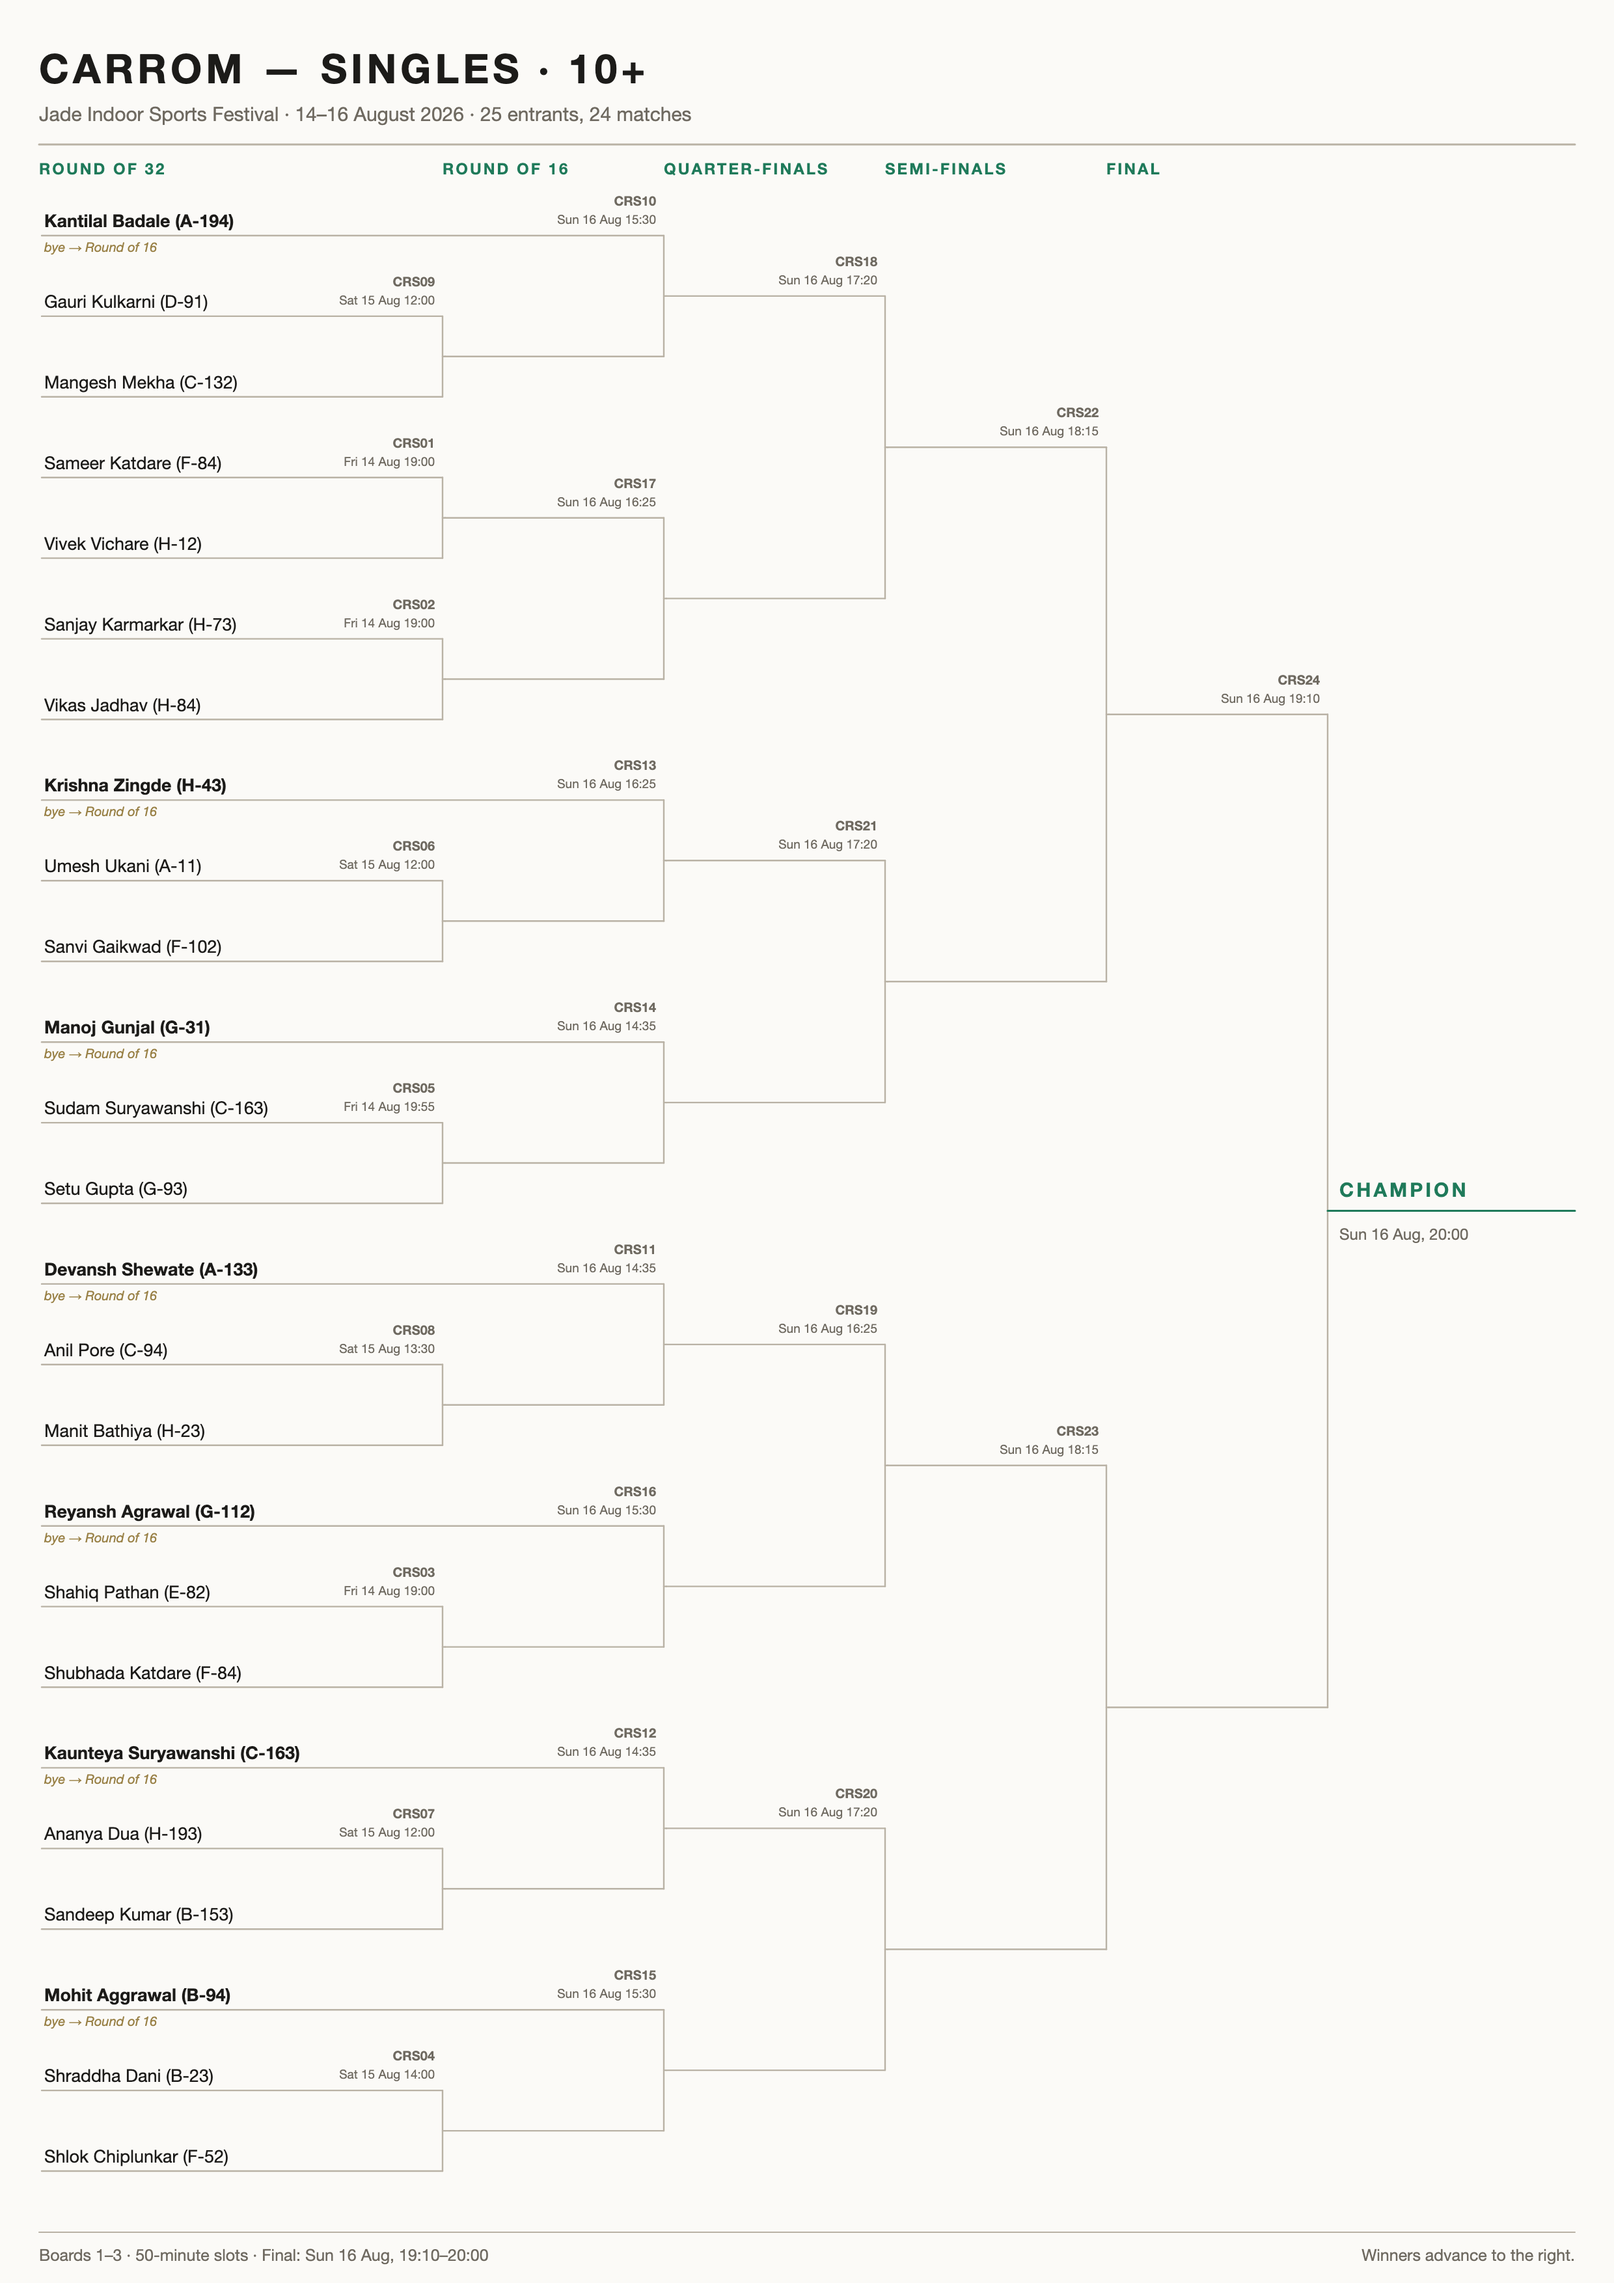
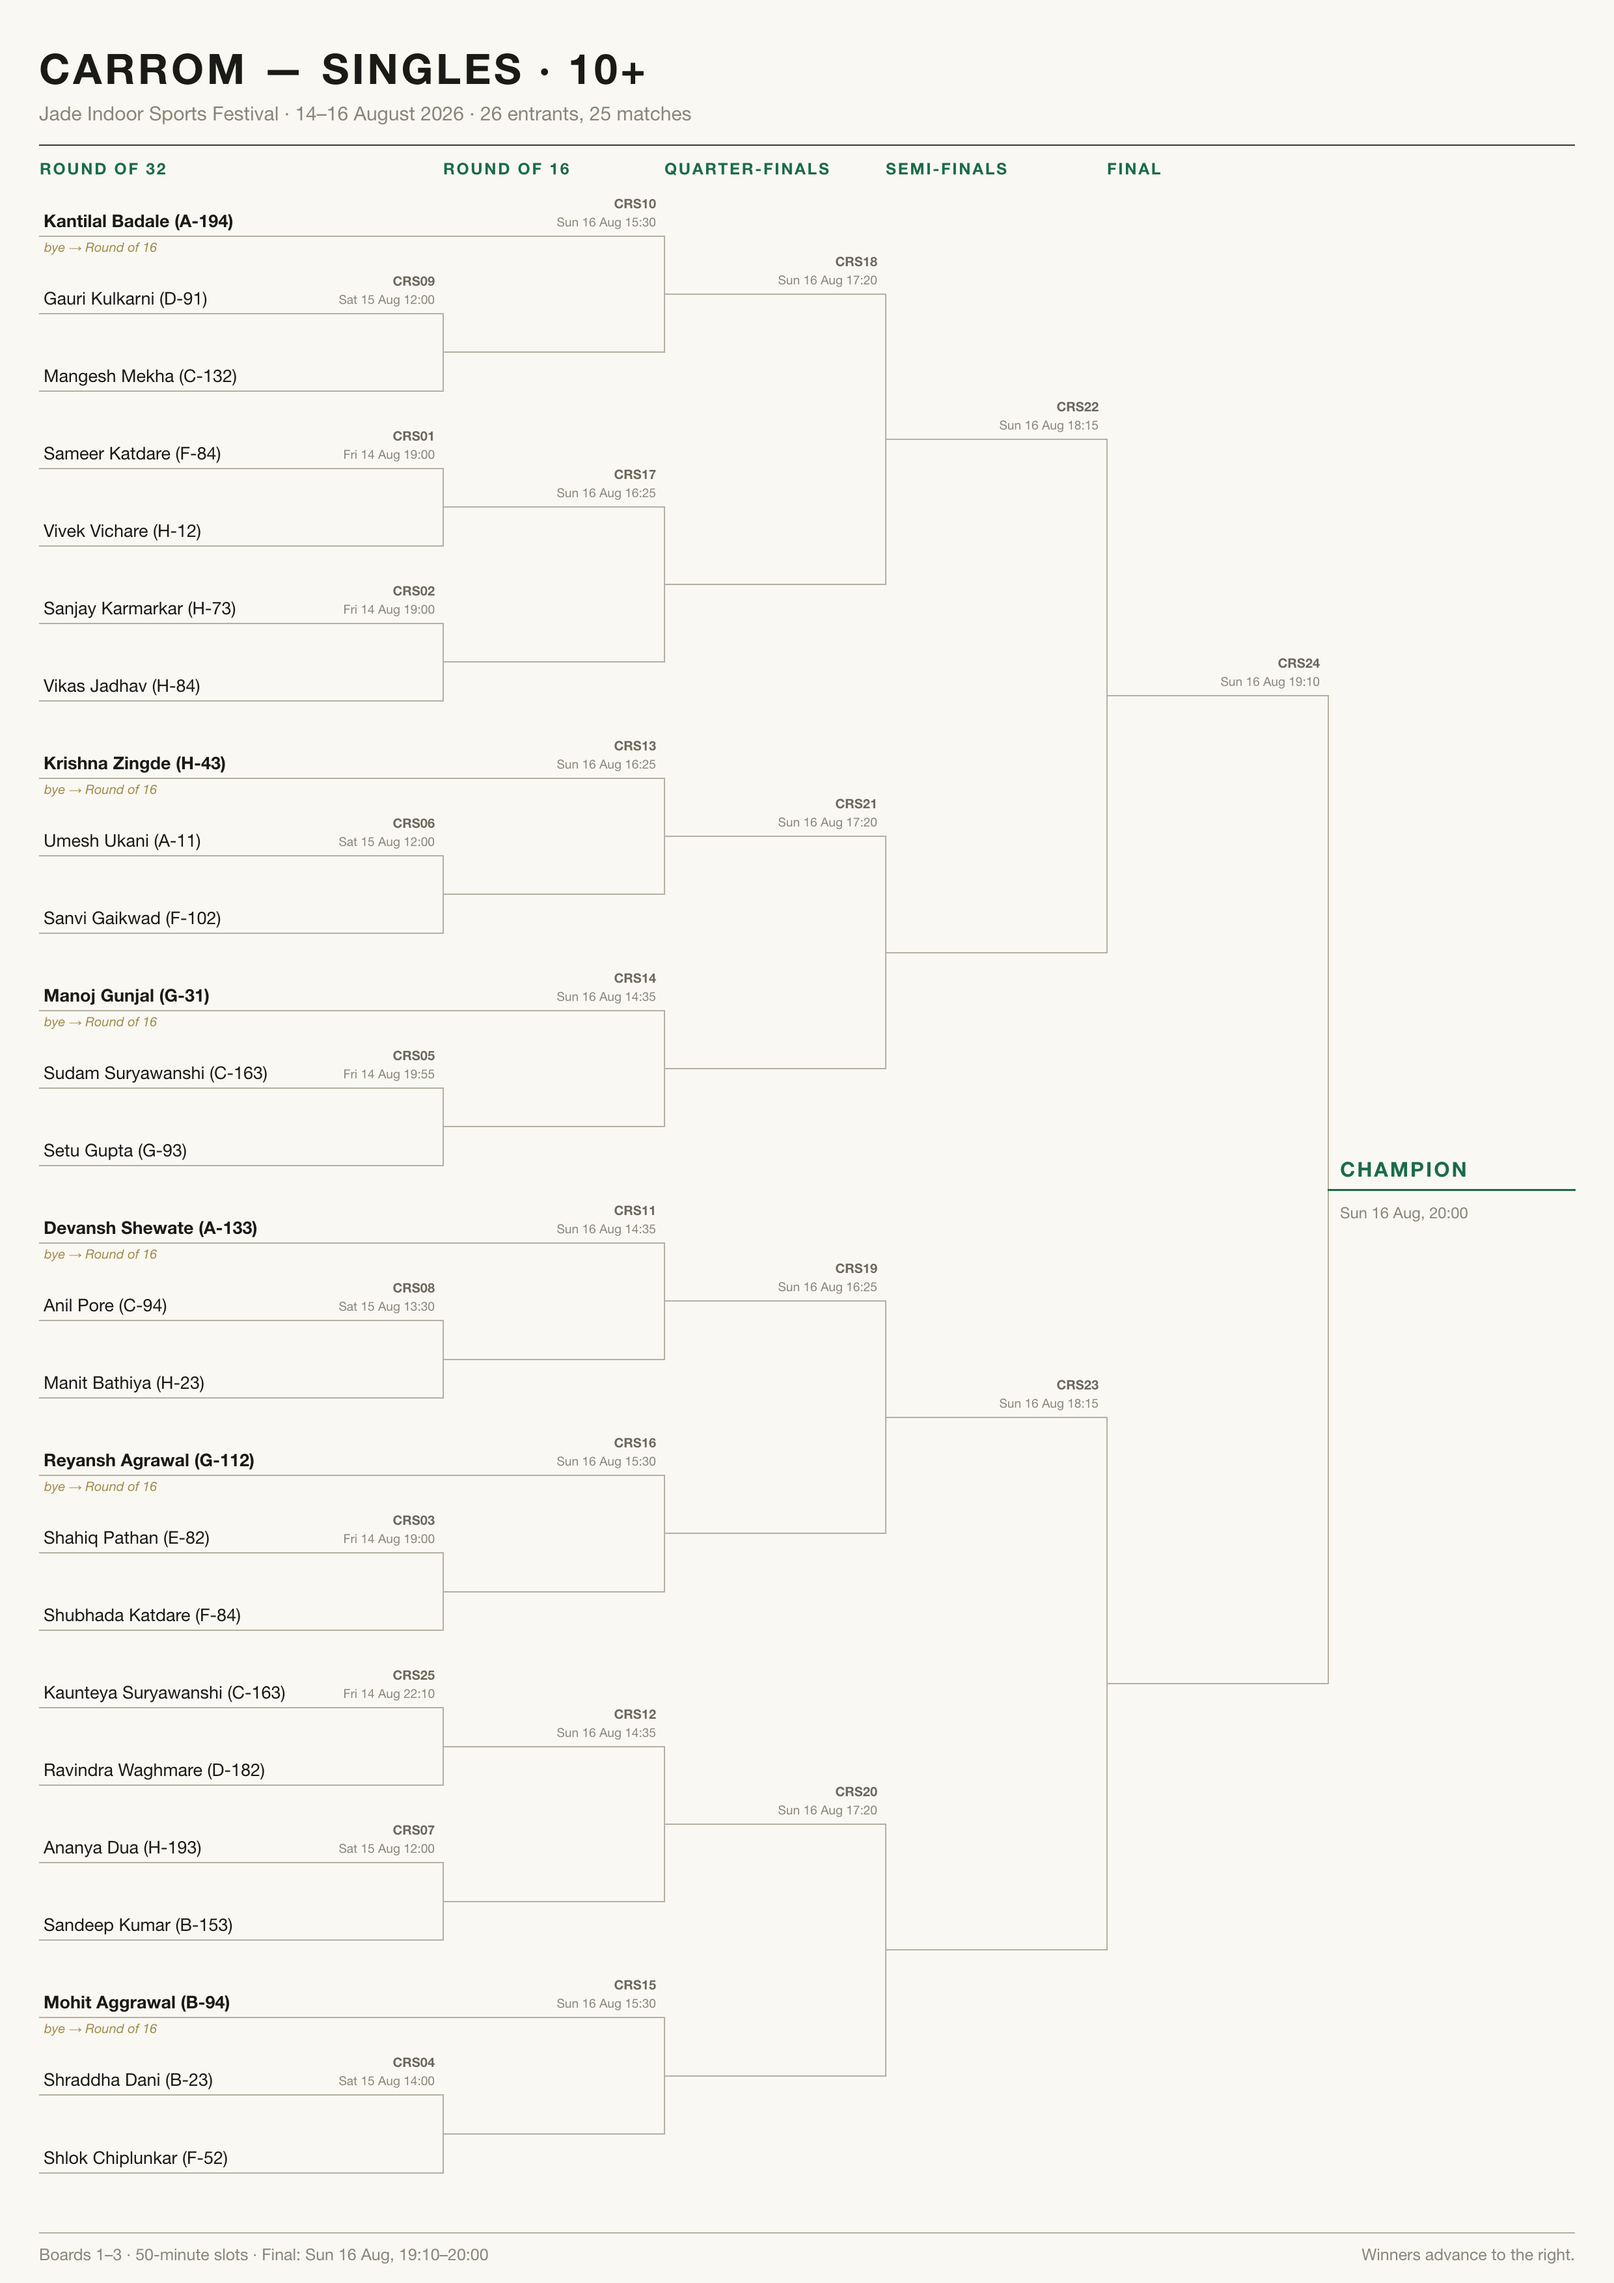
Add bracket rendering script and update carrom singles match data for Kaunteya

diff --git a/scripts/bracket.py b/scripts/bracket.py
@@ -1,0 +1,204 @@
+#!/usr/bin/env python3
+"""Render a knockout draw CSV as a printable A4 bracket sheet.
+
+Lays the draw out as HTML at 1240x1754 CSS px (A4 at 150dpi) and screenshots it
+with headless Chrome at 2x, giving a 2480x3508 PNG. Geometry is measured off the
+existing sheets in brackets/ so a regenerated category matches the rest of the set.
+
+    python3 bracket.py schedules/data/carrom-singles.csv brackets/carrom-singles.png
+"""
+
+import csv
+import html
+import subprocess
+import sys
+from pathlib import Path
+
+CHROME = '/Applications/Google Chrome.app/Contents/MacOS/Google Chrome'
+
+# --- page geometry, CSS px; rendered at 2x
+W, H = 1240, 1754
+ML, MR = 30, 30
+COL0, COL_GAP = 339.75, 170.0          # x of each round's vertical connector
+ROUNDS = ['Round of 32', 'Round of 16', 'Quarter-final', 'Semi-final', 'Final']
+COL_X = {r: COL0 + COL_GAP * i for i, r in enumerate(ROUNDS)}
+LABELS = ['ROUND OF 32', 'ROUND OF 16', 'QUARTER-FINALS', 'SEMI-FINALS', 'FINAL']
+ROW_TOP, ROW_BOTTOM = 180.75, 1668.75  # y of the first and last entrant line
+RULE_Y, FOOT_Y = 110.75, 1714.75
+LABEL_INSET = 5.75                     # match labels are right-aligned this far left of the connector
+
+C_BG = '#faf8f3'
+C_LINE = '#b5b0a0'
+C_NAME = '#1a1a17'
+C_ID = '#6b675c'
+C_TIME = '#8a8578'
+C_GREEN = '#1a6b4a'
+C_TAN = '#a08b4a'
+C_RULE = '#3a3a33'
+
+SLOT_MINUTES = {'Badminton': 30, 'Table Tennis': 15, 'Chess': 50, 'Carrom': 50,
+                '8-ball pool': 15}
+
+
+def build(rows):
+	"""Index the draw by match id and find its final."""
+	by_id = {r['Match']: r for r in rows}
+	fed = {s[len('Winner '):] for r in rows for s in (r['Side A'], r['Side B'])
+	       if s.startswith('Winner ')}
+	(root,) = [m for m in by_id if m not in fed]
+	return by_id, root
+
+
+def main(csv_path, out_png):
+	with open(csv_path, encoding='utf-8') as fh:
+		rows = list(csv.DictReader(fh))
+	by_id, root = build(rows)
+
+	# Entrants top to bottom: a depth-first walk of the tree from the final.
+	order = []
+
+	def dfs(mid):
+		for side in ('Side A', 'Side B'):
+			val = by_id[mid][side]
+			if val.startswith('Winner '):
+				dfs(val[len('Winner '):])
+			else:
+				order.append((val, mid))
+
+	dfs(root)
+
+	n = len(order)
+	pitch = (ROW_BOTTOM - ROW_TOP) / (n - 1)
+	leaf_y = {name: ROW_TOP + i * pitch for i, (name, _) in enumerate(order)}
+
+	ymid = {}
+
+	def y_of(mid):
+		"""A match sits midway between the two sides feeding it."""
+		if mid not in ymid:
+			ymid[mid] = sum(side_y(by_id[mid][s]) for s in ('Side A', 'Side B')) / 2
+		return ymid[mid]
+
+	def side_y(val):
+		return y_of(val[len('Winner '):]) if val.startswith('Winner ') else leaf_y[val]
+
+	def x_start(val):
+		"""Where a side's incoming horizontal begins — the left margin, or the
+		connector of the match it comes out of."""
+		if val.startswith('Winner '):
+			return COL_X[by_id[val[len('Winner '):]]['Round']]
+		return ML
+
+	out = []
+
+	def div(style, text=''):
+		out.append(f'<div style="{style}">{text}</div>')
+
+	def snap(v):
+		"""Land on a whole device pixel — the page is rendered at 2x, so halves
+		are exact and anything finer leaves a seam where two rules meet."""
+		return round(v * 2) / 2
+
+	def hline(x1, x2, y, color=C_LINE, thick=1):
+		x1, x2, y = snap(x1), snap(x2), snap(y)
+		div(f'position:absolute;left:{x1:.1f}px;top:{y:.1f}px;width:{x2 - x1:.1f}px;'
+		    f'height:{thick}px;background:{color}')
+
+	def vline(x, y1, y2, color=C_LINE, thick=1):
+		x, y1, y2 = snap(x), snap(y1), snap(y2)
+		div(f'position:absolute;left:{x:.1f}px;top:{y1:.1f}px;width:{thick}px;'
+		    f'height:{y2 - y1:.1f}px;background:{color}')
+
+	def text(x, y, s, size, color, weight=400, italic=False, right=False,
+	         width=340, ls=0):
+		left = x - width if right else x
+		div(f'position:absolute;left:{left:.2f}px;top:{y:.2f}px;width:{width}px;'
+		    f'text-align:{"right" if right else "left"};font-size:{size}px;'
+		    f'color:{color};font-weight:{weight};letter-spacing:{ls}px;'
+		    f'font-style:{"italic" if italic else "normal"};line-height:1',
+		    html.escape(s))
+
+	# --- the bracket itself: three sides of a box per match, opening to the left
+	for mid, r in by_id.items():
+		v = COL_X[r['Round']]
+		a, b = r['Side A'], r['Side B']
+		ya, yb = side_y(a), side_y(b)
+		# arms run a pixel past the connector so the two corners close
+		hline(x_start(a), v + 1, ya)
+		hline(x_start(b), v + 1, yb)
+		vline(v, ya, yb)
+		# id and time, right-aligned just inside the connector, above the upper arm
+		text(v - LABEL_INSET, ya - 30, mid, 10.0, C_ID, weight=700, right=True)
+		text(v - LABEL_INSET, ya - 15, f"{r['Day']} {r['Start']}", 9.55, C_TIME, right=True)
+
+	# --- entrants; a bye enters at a later round and is called out as such
+	byes = {name for name, mid in order if by_id[mid]['Round'] != ROUNDS[0]}
+	for name, mid in order:
+		y = leaf_y[name]
+		text(33.5, y - 18, name, 13.5, C_NAME, weight=700 if name in byes else 400)
+		if name in byes:
+			text(34, y + 4, f"bye → {by_id[mid]['Round']}", 10, C_TAN, italic=True)
+
+	# --- champion, drawn like an entrant row but in green
+	fy = y_of(root)
+	fin = by_id[root]
+	champ_x = COL_X['Final'] + 9.75
+	hline(COL_X['Final'], W - MR + 0.5, fy, C_GREEN, 1.5)
+	text(champ_x, fy - 23.31, 'CHAMPION', 15.7, C_GREEN, weight=700, ls=1.45)
+	text(champ_x, fy + 12.38, f"{fin['Day']}, {fin['End']}", 11.9, C_TIME)
+
+	# --- header and footer
+	head = []
+
+	def fixed(style, s):
+		head.append(f'<div style="position:absolute;{style};line-height:1">'
+		            f'{html.escape(s)}</div>')
+
+	cat = rows[0]['Category']
+	fixed(f'left:{ML}px;top:36.5px;font-size:32.2px;font-weight:700;letter-spacing:2.27px;'
+	      f'color:{C_NAME}', cat.upper())
+	fixed(f'left:{ML}px;top:79.5px;font-size:15px;color:{C_TIME}',
+	      f'Jade Indoor Sports Festival · 14–16 August 2026 · '
+	      f'{n} entrants, {len(by_id)} matches')
+	head.append(f'<div style="position:absolute;left:{ML}px;top:{RULE_Y}px;'
+	            f'width:{W - ML - MR}px;height:1px;background:{C_RULE}"></div>')
+	for i, label in enumerate(LABELS):
+		# each round's label sits at the left edge of its band — the connector of
+		# the round before it
+		x = ML + 0.5 if i == 0 else COL_X[ROUNDS[i - 1]] + 0.75
+		fixed(f'left:{x:.2f}px;top:{123.4:.2f}px;font-size:12.3px;font-weight:700;'
+		      f'letter-spacing:1.35px;color:{C_GREEN}', label)
+
+	area = sorted({r['Court'] for r in rows})
+	kind = area[0].split()[0]
+	mins = SLOT_MINUTES[cat.split(' — ')[0]]
+	head.append(f'<div style="position:absolute;left:{ML}px;top:{FOOT_Y}px;'
+	            f'width:{W - ML - MR}px;height:1px;background:{C_LINE}"></div>')
+	fixed(f'left:{ML}px;top:{FOOT_Y + 10.5}px;font-size:12.5px;color:{C_TIME}',
+	      f"{kind}s {area[0].split()[-1]}–{area[-1].split()[-1]} · {mins}-minute slots · "
+	      f"Final: {fin['Day']}, {fin['Start']}–{fin['End']}")
+	head.append(f'<div style="position:absolute;left:{ML}px;top:{FOOT_Y + 10.5}px;'
+	            f'width:{W - ML - MR}px;text-align:right;font-size:12.5px;'
+	            f'color:{C_TIME};line-height:1">Winners advance to the right.</div>')
+
+	doc = (f'<!doctype html><html><head><meta charset="utf-8"><style>'
+	       f'*{{margin:0;padding:0;box-sizing:border-box}}'
+	       f'html,body{{width:{W}px;height:{H}px;background:{C_BG};'
+	       f"font-family:'Helvetica Neue',Helvetica,Arial,sans-serif;"
+	       f'-webkit-font-smoothing:antialiased}}'
+	       f'</style></head><body>{"".join(head)}{"".join(out)}</body></html>')
+
+	out_png = str(Path(out_png).resolve())
+	tmp = Path(out_png).with_suffix('.html')
+	tmp.write_text(doc, encoding='utf-8')
+	subprocess.run([
+		CHROME, '--headless', '--disable-gpu', '--hide-scrollbars',
+		f'--screenshot={out_png}', f'--window-size={W},{H}',
+		'--force-device-scale-factor=2', tmp.as_uri(),
+	], check=True, capture_output=True)
+	tmp.unlink()
+	print(f'{out_png}: {n} entrants, {len(by_id)} matches')
+
+
+if __name__ == '__main__':
+	main(sys.argv[1], sys.argv[2])
